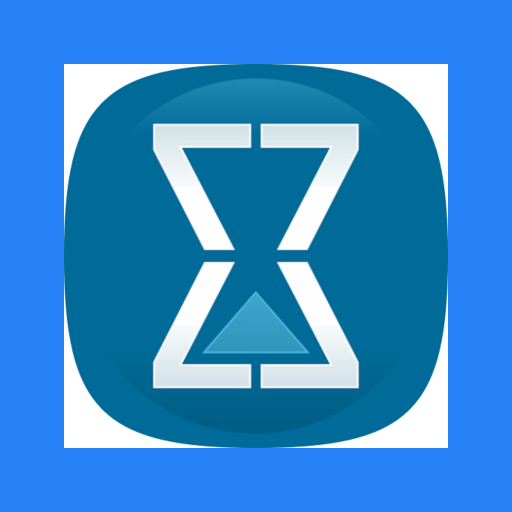
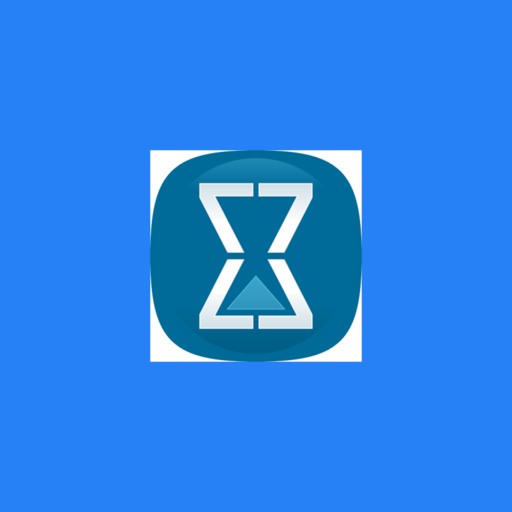
fix(fork): complete guided PWA installability

diff --git a/spec/custom/builders/custom/web_app_manifest_builder_spec.rb b/spec/custom/builders/custom/web_app_manifest_builder_spec.rb
@@ -1,4 +1,5 @@
 require 'rails_helper'
+require 'mini_magick'
 
 RSpec.describe Custom::WebAppManifestBuilder do
   describe '#perform' do
@@ -20,11 +21,12 @@ RSpec.describe Custom::WebAppManifestBuilder do
         short_name: 'Se7e Sistemas',
         start_url: '/',
         scope: '/',
-        display: 'standalone'
+        display: 'standalone',
+        prefer_related_applications: false
       )
       expect(manifest[:icons]).to contain_exactly(
-        { src: '/brand-assets/pwa-icon-se7e-192.png', sizes: '192x192', type: 'image/png', purpose: 'any' },
-        { src: '/brand-assets/pwa-icon-se7e-512.png', sizes: '512x512', type: 'image/png', purpose: 'any' }
+        { src: '/brand-assets/pwa-icon-se7e-192.png', sizes: '192x192', type: 'image/png', purpose: 'any maskable' },
+        { src: '/brand-assets/pwa-icon-se7e-512.png', sizes: '512x512', type: 'image/png', purpose: 'any maskable' }
       )
     end
 
@@ -39,6 +41,32 @@ RSpec.describe Custom::WebAppManifestBuilder do
       expect(manifest[:short_name]).to eq('Chatwoot')
       expect(manifest.dig(:icons, 0, :src)).to eq('/android-icon-192x192.png')
       expect(manifest.dig(:icons, 1, :src)).to eq('/favicon-512x512.png')
+    end
+  end
+
+  context 'with packaged PWA icons' do
+    {
+      'pwa-icon-se7e-192.png' => 192,
+      'pwa-icon-se7e-512.png' => 512
+    }.each do |filename, expected_size|
+      it "validates #{filename} for regular and maskable use" do
+        image = MiniMagick::Image.open(Rails.public_path.join('brand-assets', filename))
+        pixels = image.get_pixels
+        background = pixels.first.first.first(3)
+        center = (expected_size - 1) / 2.0
+        content_outside_safe_circle = false
+        pixels.each_with_index do |row, y|
+          row.each_with_index do |pixel, x|
+            next unless Math.hypot(x - center, y - center) > expected_size * 0.4
+
+            content_outside_safe_circle ||= pixel.first(3).zip(background).any? { |value, base| (value - base).abs > 5 }
+          end
+        end
+
+        expect(image.type).to eq('PNG')
+        expect(image.dimensions).to eq([expected_size, expected_size])
+        expect(image['%[opaque]']).to eq('true')
+      end
     end
   end
 end

diff --git a/spec/custom/controllers/dashboard_controller_spec.rb b/spec/custom/controllers/dashboard_controller_spec.rb
@@ -1,0 +1,25 @@
+require 'rails_helper'
+
+RSpec.describe 'Dashboard PWA metadata', type: :request do
+  it 'renders installability metadata when DISPLAY_MANIFEST is false' do
+    allow(GlobalConfig).to receive(:get).and_call_original
+    allow(GlobalConfig).to receive(:get).with(*DashboardController::GLOBAL_CONFIG_KEYS).and_return(
+      {
+        'DISPLAY_MANIFEST' => false,
+        'INSTALLATION_NAME' => 'Se7e Sistemas',
+        'PWA_ICON_192_URL' => '/brand-assets/pwa-icon-se7e-192.png'
+      }
+    )
+
+    get '/app/login'
+
+    expect(response).to have_http_status(:success)
+    expect(response.body).to include('<link rel="manifest" href="/manifest.webmanifest">')
+    expect(response.body).to include('<meta name="theme-color" content="#2781F6">')
+    expect(response.body).to include('<meta name="apple-mobile-web-app-capable" content="yes">')
+    expect(response.body).to include('<meta name="apple-mobile-web-app-title" content="Se7e Sistemas">')
+    expect(response.body).to include(
+      '<link rel="apple-touch-icon" sizes="192x192" href="/brand-assets/pwa-icon-se7e-192.png">'
+    )
+  end
+end

diff --git a/custom/app/builders/custom/web_app_manifest_builder.rb b/custom/app/builders/custom/web_app_manifest_builder.rb
@@ -15,11 +15,12 @@ class Custom::WebAppManifestBuilder
       start_url: '/',
       scope: '/',
       display: 'standalone',
+      prefer_related_applications: false,
       background_color: THEME_COLOR,
       theme_color: THEME_COLOR,
       icons: [
-        { src: config['PWA_ICON_192_URL'].presence || DEFAULT_ICON_192_URL, sizes: '192x192', type: 'image/png', purpose: 'any' },
-        { src: config['PWA_ICON_URL'].presence || DEFAULT_ICON_URL, sizes: '512x512', type: 'image/png', purpose: 'any' }
+        { src: config['PWA_ICON_192_URL'].presence || DEFAULT_ICON_192_URL, sizes: '192x192', type: 'image/png', purpose: 'any maskable' },
+        { src: config['PWA_ICON_URL'].presence || DEFAULT_ICON_URL, sizes: '512x512', type: 'image/png', purpose: 'any maskable' }
       ]
     }
   end

diff --git a/spec/controllers/dashboard_controller_spec.rb b/spec/controllers/dashboard_controller_spec.rb
@@ -2,14 +2,9 @@ require 'rails_helper'
 
 describe '/app/login', type: :request do
   context 'without DEFAULT_LOCALE' do
-    it 'renders the PWA manifest link when DISPLAY_MANIFEST is false' do
-      allow(GlobalConfig).to receive(:get).and_call_original
-      allow(GlobalConfig).to receive(:get).with(*DashboardController::GLOBAL_CONFIG_KEYS)
-                                          .and_return({ 'DISPLAY_MANIFEST' => false })
-
+    it 'renders the dashboard' do
       get '/app/login'
       expect(response).to have_http_status(:success)
-      expect(response.body).to include('<link rel="manifest" href="/manifest.webmanifest">')
     end
   end
 

diff --git a/spec/custom/controllers/custom/web_app_manifests_controller_spec.rb b/spec/custom/controllers/custom/web_app_manifests_controller_spec.rb
@@ -4,7 +4,7 @@ RSpec.describe 'White-label web app manifest', type: :request do
   let(:manifest) do
     {
       id: '/', name: 'Se7e Sistemas Webchat', short_name: 'Se7e Sistemas', start_url: '/', scope: '/', display: 'standalone',
-      background_color: '#2781F6', theme_color: '#2781F6', icons: []
+      prefer_related_applications: false, background_color: '#2781F6', theme_color: '#2781F6', icons: []
     }
   end
   let(:builder) { instance_double(Custom::WebAppManifestBuilder, perform: manifest) }

diff --git a/app/controllers/dashboard_controller.rb b/app/controllers/dashboard_controller.rb
@@ -13,6 +13,9 @@ class DashboardController < ActionController::Base
     BRAND_NAME
     PRIVACY_URL
     DISPLAY_MANIFEST
+    # FORK: white-label PWA metadata remains available when the stock manifest is hidden
+    PWA_ICON_192_URL
+    PWA_ICON_URL
     CREATE_NEW_ACCOUNT_FROM_DASHBOARD
     CHATWOOT_INBOX_TOKEN
     API_CHANNEL_NAME
